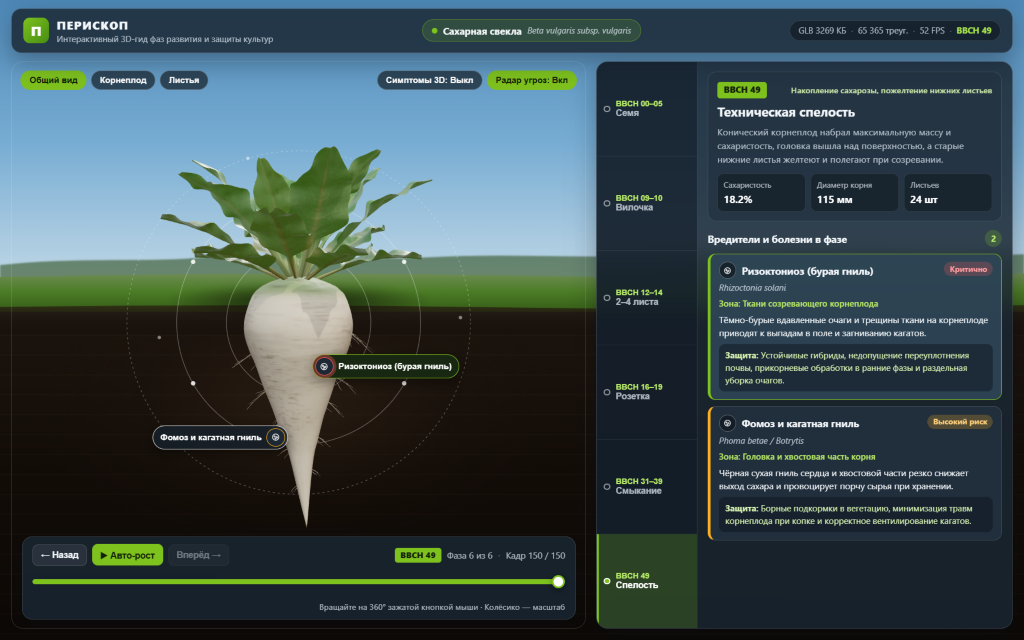
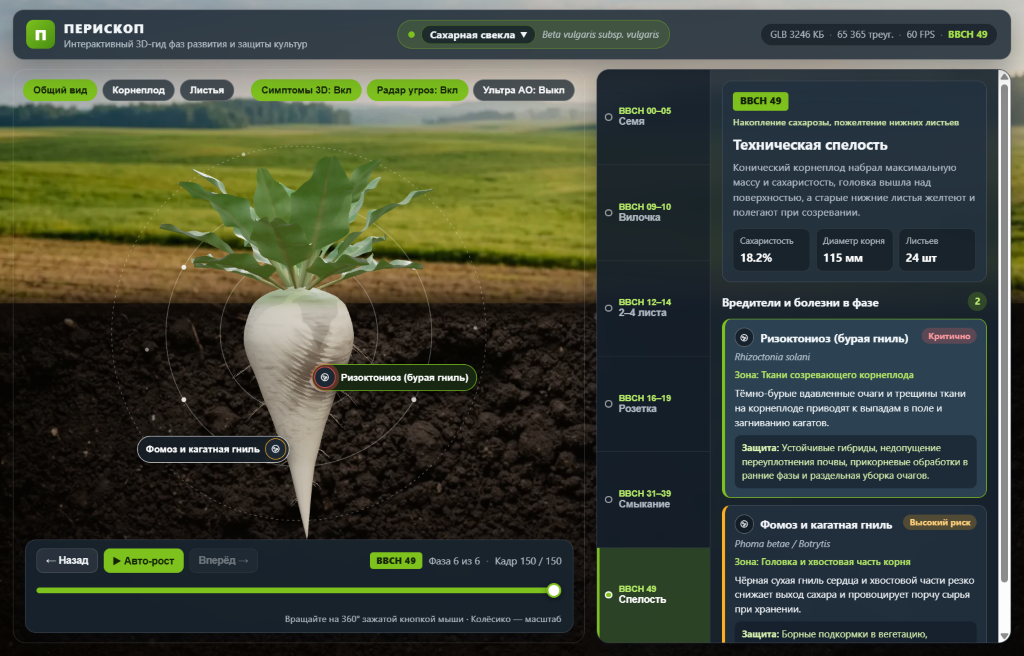
Replace flat SVG backdrop with photorealistic sunlit field & chernozem cutaway WebP layers

diff --git a/web/style.css b/web/style.css
@@ -38,58 +38,80 @@ body {
   overflow: hidden;
 }
 
-/* Full-bleed atmospheric field & dark subsoil backdrop */
+/* Full-bleed photorealistic sunlit farmland & dark chernozem soil cutaway backdrop */
 .field-backdrop {
   position: fixed;
   inset: 0;
   pointer-events: none;
   z-index: 0;
   overflow: hidden;
+  background: #120d09;
 }
 
 .sky-layer {
   position: absolute;
-  inset: 0 0 calc(100% - var(--soil-line-y)) 0;
-  background: linear-gradient(
-    180deg,
-    #4e89b8 0%,
-    #78add3 48%,
-    #b6d2e4 88%,
-    #cfe0da 100%
-  );
-  transition: bottom 0.08s linear;
-}
-
-.horizon-band {
-  position: absolute;
   left: 0;
   right: 0;
-  top: calc(var(--soil-line-y) - 110px);
-  height: 185px;
-  transition: top 0.08s linear;
-}
-
-.horizon-svg {
-  width: 100%;
-  height: 100%;
-  display: block;
+  top: 0;
+  bottom: calc(100% - var(--soil-line-y) - 10px);
+  background-color: #6ea3cc;
+  background-image:
+    linear-gradient(
+      180deg,
+      rgba(16, 30, 44, 0.22) 0%,
+      rgba(16, 28, 40, 0.06) 44%,
+      rgba(22, 18, 12, 0.08) 84%,
+      rgba(24, 17, 11, 0.58) 100%
+    ),
+    url("../assets/textures/bg_field_sky.webp");
+  background-size: cover;
+  background-position: center bottom;
+  background-repeat: no-repeat;
+  transition: bottom 0.08s linear;
 }
 
 .subsoil-layer {
   position: absolute;
   left: 0;
   right: 0;
-  top: calc(var(--soil-line-y) + 52px);
+  top: calc(var(--soil-line-y) - 6px);
   bottom: 0;
-  background:
-    repeating-linear-gradient(
-      180deg,
-      rgba(255, 224, 186, 0.016) 0px,
-      rgba(255, 224, 186, 0.016) 2px,
-      rgba(0, 0, 0, 0) 2px,
-      rgba(0, 0, 0, 0) 28px
+  background-color: #16100b;
+  background-image:
+    radial-gradient(
+      ellipse 78% 72% at var(--plant-center-x) 28%,
+      rgba(10, 7, 4, 0.14) 0%,
+      rgba(8, 5, 3, 0.56) 100%
     ),
-    linear-gradient(180deg, #19120c 0%, #130d08 45%, #0c0805 100%);
+    linear-gradient(
+      180deg,
+      rgba(16, 11, 7, 0.42) 0%,
+      rgba(14, 10, 6, 0.28) 16%,
+      rgba(10, 7, 4, 0.42) 62%,
+      rgba(6, 4, 2, 0.72) 100%
+    ),
+    url("../assets/textures/bg_chernozem_subsoil.webp");
+  background-size: cover;
+  background-position: center top;
+  background-repeat: no-repeat;
+  transition: top 0.08s linear;
+}
+
+/* Soft organic soil-surface transition lip blending sunlit field earth into cutaway chernozem */
+.horizon-seam {
+  position: absolute;
+  left: 0;
+  right: 0;
+  top: calc(var(--soil-line-y) - 22px);
+  height: 44px;
+  background: linear-gradient(
+    180deg,
+    rgba(28, 21, 13, 0) 0%,
+    rgba(24, 17, 10, 0.48) 38%,
+    rgba(16, 11, 7, 0.76) 54%,
+    rgba(16, 11, 7, 0.24) 76%,
+    rgba(16, 11, 7, 0) 100%
+  );
   transition: top 0.08s linear;
 }
 

diff --git a/web/index.html b/web/index.html
@@ -34,46 +34,11 @@
 </head>
 <body>
   <div class="periscope-app">
-    <!-- Full-bleed atmospheric field & subsoil backdrop (no 3D dirt block) -->
+    <!-- Full-bleed photorealistic sunlit field & chernozem cutaway backdrop (no 3D dirt block) -->
     <div class="field-backdrop" id="field-backdrop" aria-hidden="true">
       <div class="sky-layer"></div>
-      <div class="horizon-band" id="horizon-band">
-        <svg class="horizon-svg" viewBox="0 0 1600 220" preserveAspectRatio="none">
-          <defs>
-            <linearGradient id="distantField" x1="0" y1="0" x2="0" y2="1">
-              <stop offset="0%" stop-color="#6e8c54" />
-              <stop offset="45%" stop-color="#4e7e28" />
-              <stop offset="100%" stop-color="#355d17" />
-            </linearGradient>
-            <linearGradient id="soilEdge" x1="0" y1="0" x2="0" y2="1">
-              <stop offset="0%" stop-color="#2a1d13" stop-opacity="0.72" />
-              <stop offset="40%" stop-color="#1b130d" stop-opacity="0.96" />
-              <stop offset="100%" stop-color="#140e09" stop-opacity="1" />
-            </linearGradient>
-            <filter id="horizonBokeh" x="-2%" y="-10%" width="104%" height="120%">
-              <feGaussianBlur stdDeviation="1.3" />
-            </filter>
-          </defs>
-          <!-- Soft distant treeline silhouette with optical depth-of-field blur -->
-          <path
-            d="M0,76 C120,62 210,72 310,64 C420,56 540,70 670,63 C810,55 960,68 1110,58 C1260,50 1420,66 1600,58 L1600,115 L0,115 Z"
-            fill="#476643"
-            opacity="0.72"
-            filter="url(#horizonBokeh)"
-          />
-          <!-- Green crop field strip -->
-          <path
-            d="M0,96 Q420,86 840,94 T1600,90 L1600,154 L0,154 Z"
-            fill="url(#distantField)"
-          />
-          <!-- Subsoil cut line matching root collar -->
-          <path
-            d="M0,146 Q400,140 800,147 T1600,143 L1600,220 L0,220 Z"
-            fill="url(#soilEdge)"
-          />
-        </svg>
-      </div>
       <div class="subsoil-layer" id="subsoil-layer"></div>
+      <div class="horizon-seam" id="horizon-band"></div>
     </div>
 
     <!-- Top compact bar -->
